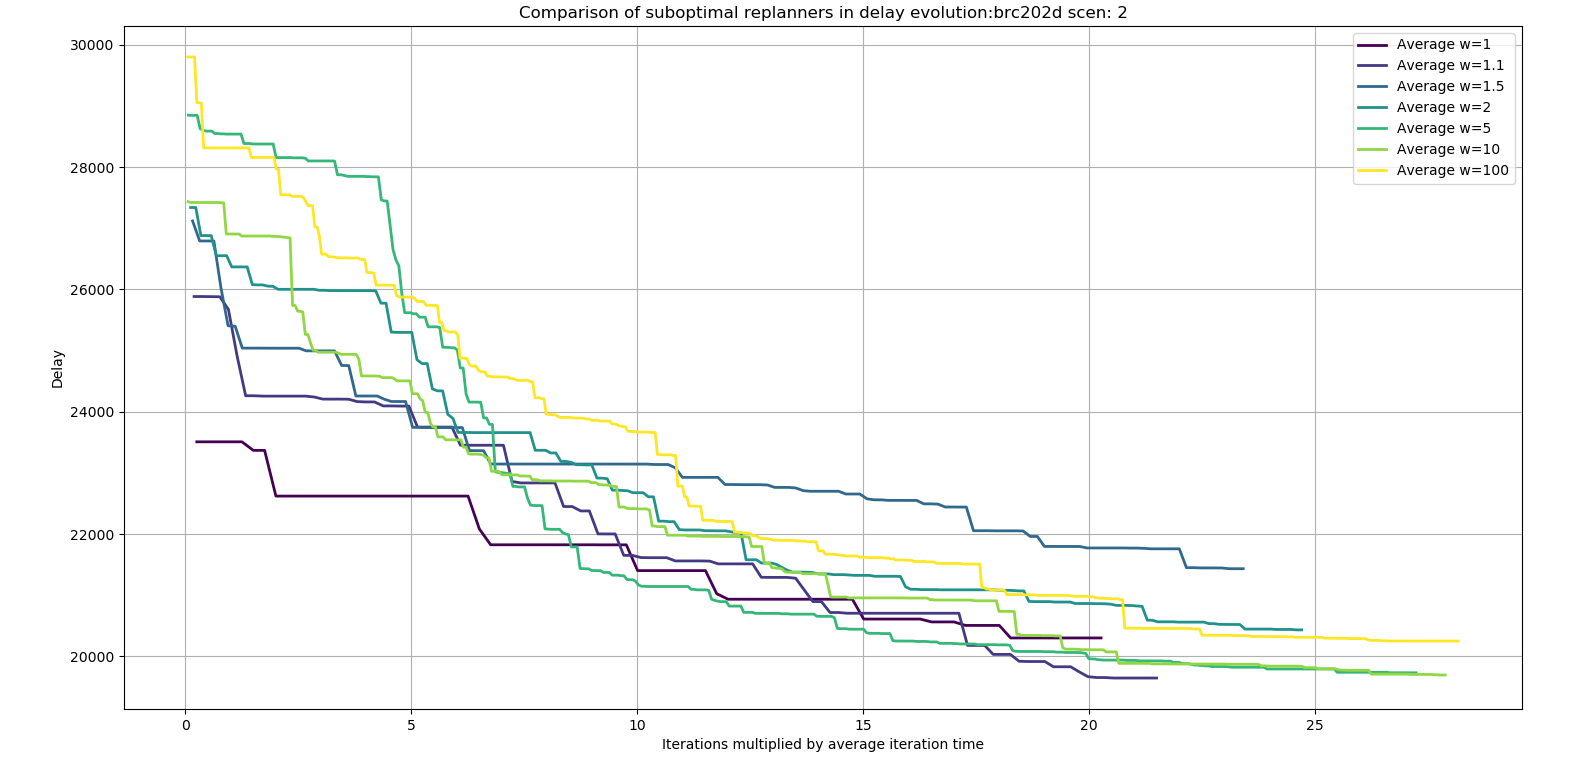
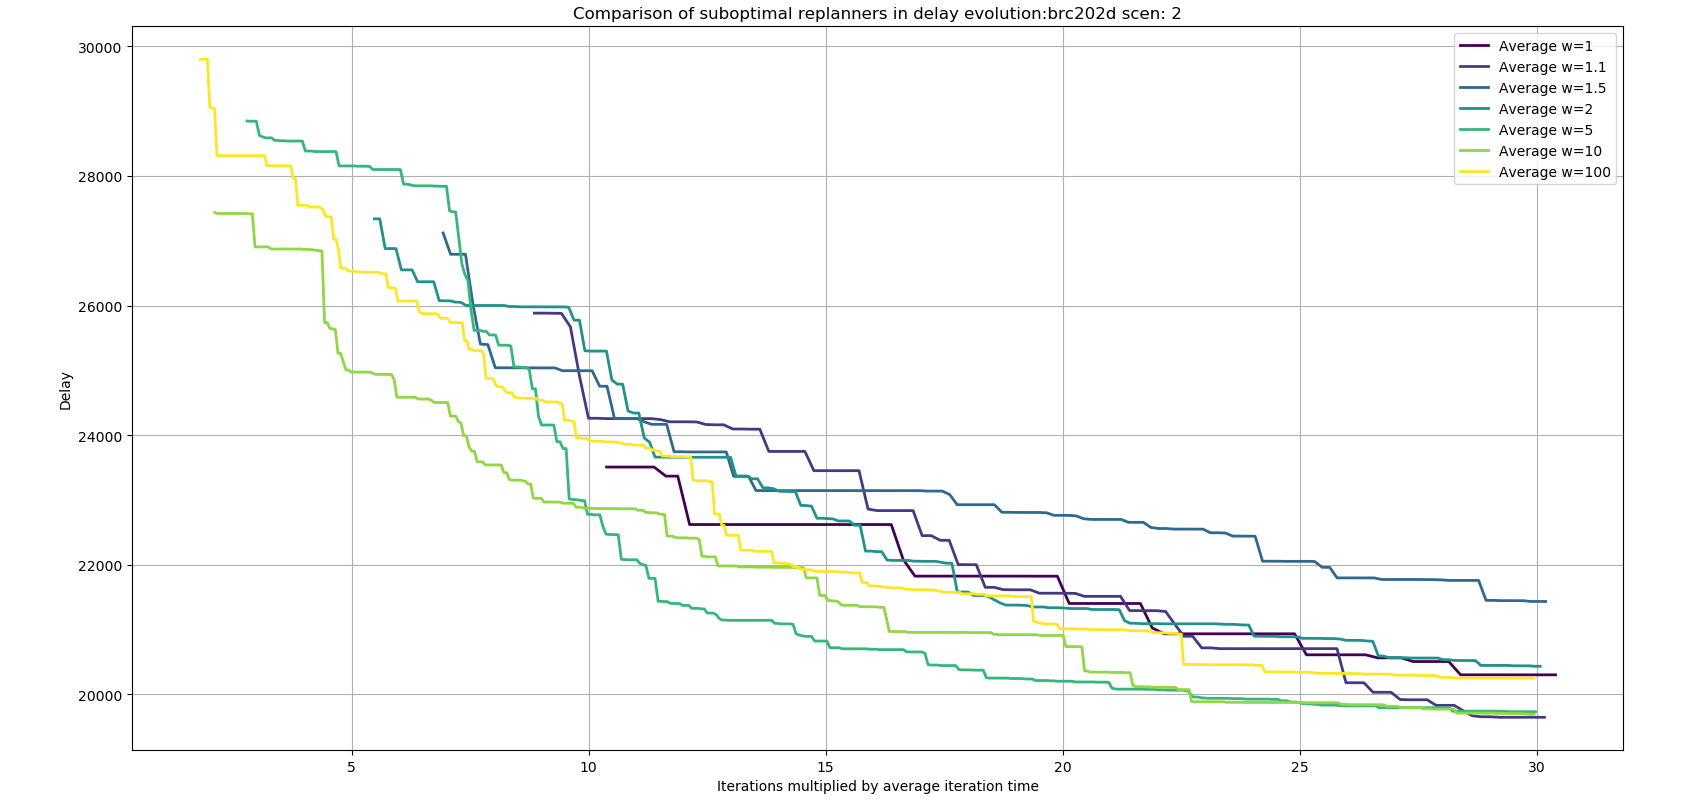
Taking into account initial solution in the plot now

diff --git a/experiments/suboptimal_replan/plot_results2.py b/experiments/suboptimal_replan/plot_results2.py
@@ -11,8 +11,8 @@ def read_file(name):
           lines.append(line)
     return lines
 
-map_name = "brc202d"
-scen_num = 1 
+map_name = "den520d"
+scen_num = 1
 w = ["w_1_0_", "w_1_1_", "w_1_5_", "w_2_0_", "w_5_0_", "w_10_0_", "w_100_0_"]
 file_names = ["./" + map_name + "/" + w[i] + str(scen_num) + ".csv" for i in range(len(w))]
 
@@ -27,11 +27,19 @@ fig, ax = plt.subplots(ncols=1, figsize=(6, 6))
 fig.tight_layout()
 weights = [1, 1.1, 1.5, 2, 5, 10, 100]
 colors = plt.cm.get_cmap("viridis", len(delays))
-# time_coefs = [0.0346831, 0.0231933, 0.0187435, 0.0127232, 0.00896849, 0.00857854, 0.00837094, 0.0347515, 0.0231554, 0.0186118, 0.0127423, 0.00902275, 0.00868921, 0.00835005] # den520d scen 1
-time_coefs = [0.250208, 0.190228, 0.157142, 0.113852, 0.0647054, 0.0564485, 0.0502255 ] # brc202d
+if map_name == "brc202d":
+    time_coefs = [0.250208, 0.190228, 0.157142, 0.113852, 0.0647054, 0.0564485, 0.0502255 ] # brc202d
+    init_sol_time = [10.1287, 8.6647, 6.77368, 5.3664, 2.73055, 2.05965, 1.75731 ]
+elif map_name == "den520d" and scen_num == 0:
+    time_coefs = [0.0346831, 0.0231933, 0.0187435, 0.0127232, 0.00896849, 0.00857854, 0.00837094] # den520d scen 1
+    init_sol_time = [2.90018, 2.14817, 1.85938, 1.2323, 0.540875, 0.367439, 0.324596]
+elif map_name == "den520d" and scen_num == 1:
+    time_coefs = [0.0395969, 0.0284578, 0.0213971, 0.0169093, 0.0107209, 0.00989726, 0.00986752    ] # den520d scen 1
+    init_sol_time = [ 2.94379, 2.65626, 2.10217, 1.64628, 0.658588, 0.424783, 0.360514  ]
+
 
 for j in range(len(delays)):
-    it = (np.arange(delays[j].shape[0]) + 1) * time_coefs[j]
+    it = (np.arange(delays[j].shape[0]) + 1) * time_coefs[j] + init_sol_time[j]
     ax.plot(it, delays[j], linewidth=2, label="Average w=" + str(weights[j]), color=colors(j))
 ax.grid()
 ax.set_xlabel("Iterations multiplied by average iteration time")
